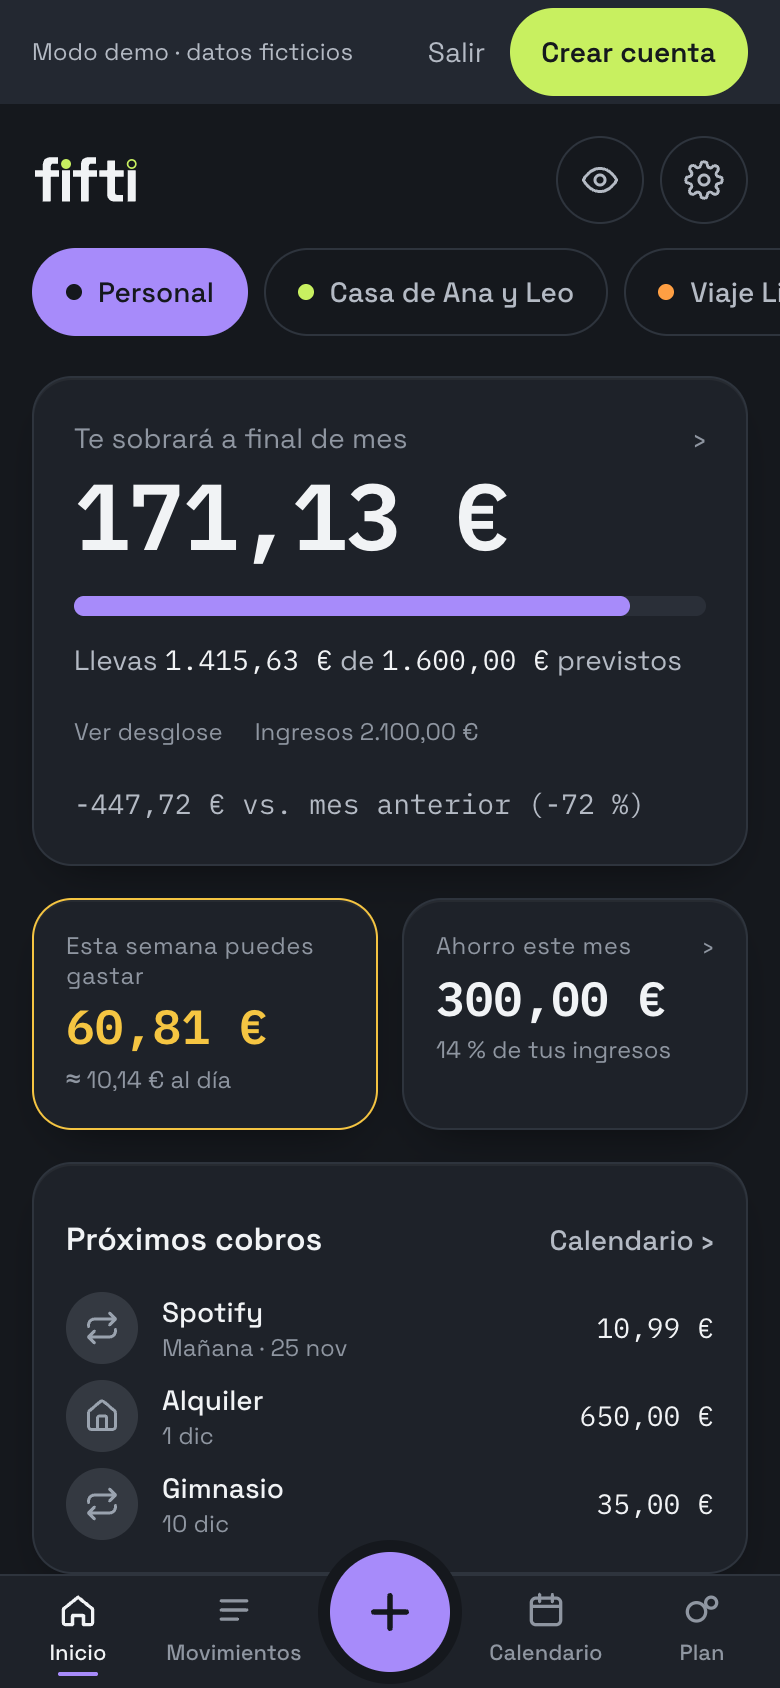
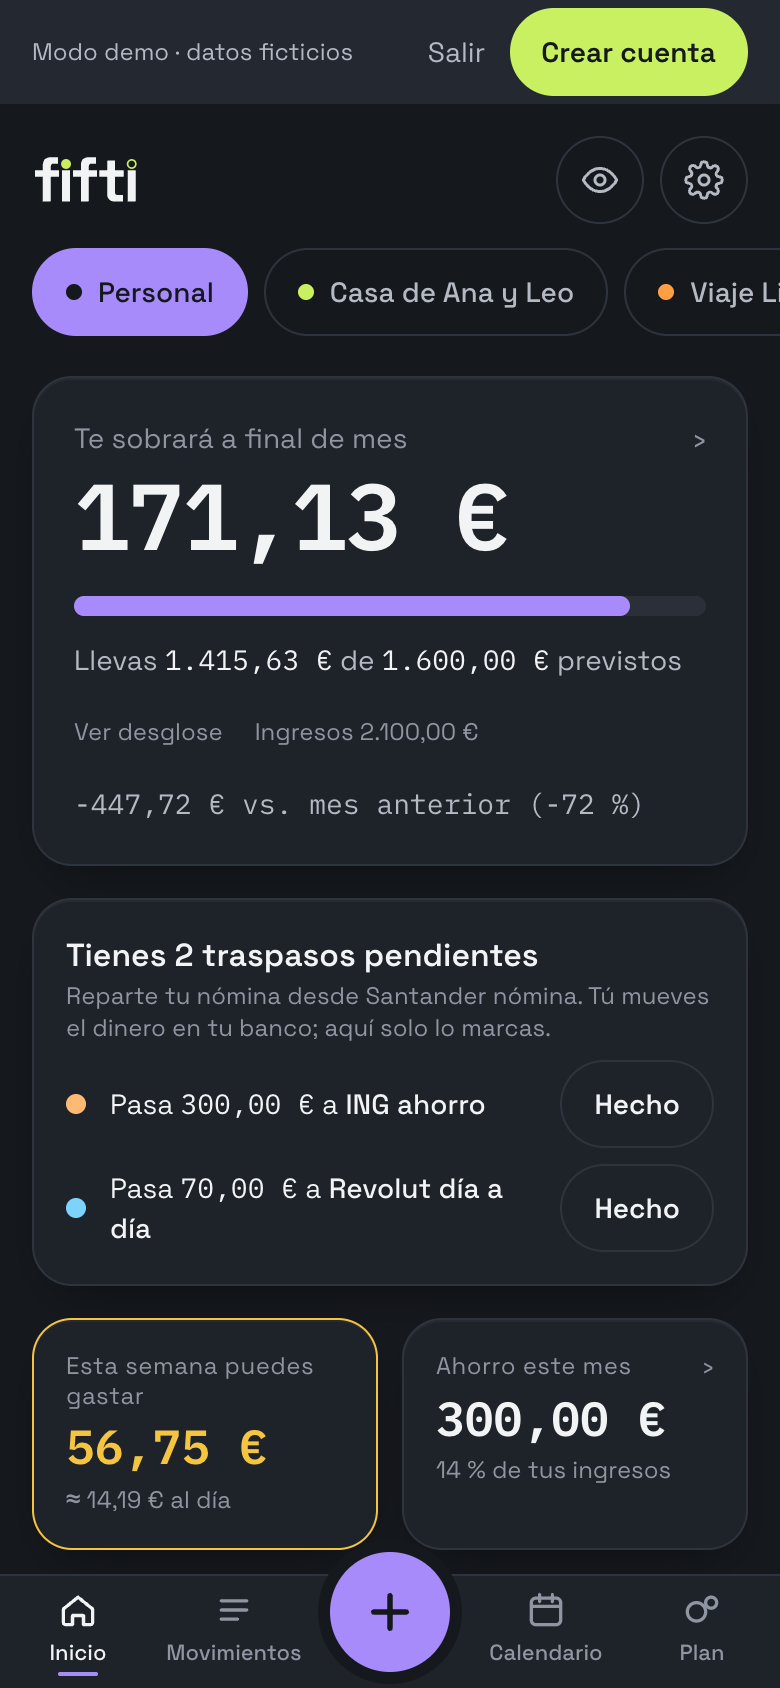
docs: README completo con resumen en inglés, capturas nuevas, arquitectura, calidad y CHANGELOG

diff --git a/README.md b/README.md
@@ -2,61 +2,122 @@
 
 *Cuentas claras en casa, en pareja y de fiesta.*
 
-PWA de finanzas personales, de pareja y de grupo. El dinero se organiza en **espacios**:
+**App:** https://fifti-seven.vercel.app · **Demo sin registro (datos ficticios):** https://fifti-seven.vercel.app/demo
 
-- **Personal**: privada. Ingresos, gastos, plan del mes y metas.
-- **Hogar** (fija): pareja o piso, con bote común proporcional a los ingresos, gastos fijos y ahorro.
-- **Plan espontáneo**: una cena o un viaje. Se comparte por enlace o QR, entran sin cuenta y al cerrarlo sale quién paga a quién.
+> **In English.** Fifti is an installable web app (PWA) for personal, couple and group finances. Your money is organised in **spaces**: a private *Personal* space, a shared *Home* (couple or flatmates, with a common pot split in proportion to income) and *Groups* in the style of Tricount, where guests join by link or QR without an account. Everything is connected: your share of every shared expense flows into your personal budget. It also has a monthly budget split by percentage, fixed expenses with a calendar and reminders, bank accounts with balances and transfers ("Split your pay"), savings goals, loans, a live shopping list, bank statement import (Santander, BBVA, CaixaBank, ING, Revolut, N26), category rules, quick-phrase entry, a PDF monthly report, discreet mode, app lock, Spanish/English and dark/light themes. Money is stored as integer cents, every table has forced Row Level Security, and the whole UI is available in both languages. The rest of this document is in Spanish.
 
-**Qué la diferencia de Tricount:** todo está conectado. Tu parte de cada gasto de grupo entra sola en tu plan personal, así sabes lo que gastas de verdad en el mes (casa + pareja + salidas). Además tiene presupuesto mensual por partidas, previsión de fin de mes, cierre de mes, bote común y metas de ahorro.
+## Qué es Fifti y para quién
 
-Prueba la demo (datos ficticios, sin registro) en `/demo`.
+Fifti es una PWA de finanzas para **una persona**, **una pareja** o **un grupo** (un viaje, una cena, un piso). Está pensada para quien quiere saber, sin hojas de cálculo, cuánto le sobrará a final de mes y quién debe a quién.
 
-## Funciones
+Qué la diferencia de Tricount: **todo está conectado**. Tu parte de cada gasto compartido entra sola en tu presupuesto personal, así ves lo que gastas de verdad (casa + pareja + salidas). Además trae presupuesto mensual por partidas, previsión de fin de mes, cuentas bancarias con saldos y metas de ahorro.
 
-- **Inicio**: cuánto te sobrará a final de mes, lo que puedes gastar esta semana, ahorro previsto, próximos cobros, presupuesto por partidas y últimos movimientos.
-- **Apuntar rápido**: el botón **+** ofrece gasto, gasto fijo, ingreso, aportación a una meta y préstamo; también acepta una frase («12 cena con Leo a medias»), un atajo de Siri y favoritos con pulsación larga.
-- **Calendario** de gastos fijos (mensual, semanal, trimestral, anual) con avisos antes del cobro y «saltar este mes».
-- **Plan**: Presupuesto (reparto por partidas y cierre de mes), Fijos y Ahorro (metas con ritmo).
-- **Pareja y grupos**: invitación a la pareja, lista de la compra, préstamos, pagador rotativo y balance de quién debe a quién.
-- **Importar del banco** (CSV) con detección de formato y duplicados, reglas de categoría y resumen mensual en PDF.
-- **Tendencias** por partida y recordatorio diario opcional.
+Fifti **no se conecta a ningún banco ni mueve dinero**: los saldos salen de lo que apuntas y de los extractos que importas. No guarda IBAN, números de cuenta ni credenciales; una cuenta es solo un nombre, un banco (texto), un color, un tipo y un saldo inicial.
 
 ## Capturas
 
-Capturas reales de la demo (`/demo`, datos ficticios: Ana, Leo, «Viaje Lisboa»), a 390 px.
+Capturas reales de la demo (datos ficticios: Ana, Leo, «Viaje Lisboa»), a 390 px y en oscuro.
 
-| Inicio | Calendario | Plan: Presupuesto |
+| Inicio | El botón + | Calendario |
 |---|---|---|
-| ![Inicio](docs/capturas/01-inicio.png) | ![Calendario](docs/capturas/02-calendario.png) | ![Presupuesto](docs/capturas/03-plan-presupuesto.png) |
+| ![Inicio](docs/capturas/01-inicio.png) | ![El botón +](docs/capturas/02-mas.png) | ![Calendario](docs/capturas/03-calendario.png) |
 
-| Plan: Fijos | Movimientos | Nuevo gasto fijo |
+| Plan | Cuentas | Ajustes |
 |---|---|---|
-| ![Fijos](docs/capturas/04-plan-fijos.png) | ![Movimientos](docs/capturas/05-movimientos.png) | ![Nuevo gasto fijo](docs/capturas/06-nuevo-gasto-fijo.png) |
+| ![Plan](docs/capturas/04-plan.png) | ![Cuentas](docs/capturas/05-cuentas.png) | ![Ajustes](docs/capturas/06-ajustes.png) |
 
-| Ajustes |
-|---|
-| ![Ajustes](docs/capturas/07-ajustes.png) |
+## Funciones
 
-## Stack
+**Espacios**
+- **Personal**: privado. Ingresos, gastos, presupuesto y metas.
+- **Hogar**: pareja o piso, con bote común proporcional a los ingresos, gastos fijos, ahorro y balance de quién debe a quién. Invitación a la pareja en un paso.
+- **Grupos** (una cena, un viaje): se comparten por enlace o QR, los **invitados entran sin cuenta** y al cerrar el plan sale quién paga a quién (con cambio de moneda, gastos privados y pagador rotativo).
 
-Next.js 16 (App Router) · TypeScript estricto · Tailwind CSS 4 · Supabase (Postgres, Auth, Storage, RLS, pg_cron) · Zod · Recharts + d3-hierarchy · next-intl · tesseract.js · Vitest · Vercel
+**Dinero**
+- **Presupuesto y partidas por %**: Fijos, Día a día, Ocio y Ahorro (y las que añadas), con barra, ritmo diario, aviso al 80 % y cierre de mes. Previsión «Te sobrará a final de mes» única en Inicio y Plan.
+- **Gastos fijos** mensuales, semanales, trimestrales y anuales, con **calendario**, «saltar este mes» y aviso previo (1, 3 o 7 días) sin importes en la notificación.
+- **Cuentas bancarias** con saldo (inicial + ingresos − gastos ± traspasos), detalle por cuenta y «Ajustar saldo» que deja un ajuste visible.
+- **Traspasos** entre cuentas: no cuentan como gasto ni ingreso. **Reparte tu nómina**: con las cuentas asociadas a cada partida, Fifti te dice cuánto pasar a cada una y se marca con un toque.
+- **Aportar al hogar**: sale de tu plan personal y entra en el hogar a tu nombre; un traspaso a la cuenta común cuenta como aportación, una sola vez.
+- **Metas de ahorro** con ritmo, hitos y retos; **préstamos** sueltos con recordatorio; **lista de la compra** compartida en directo.
+- **Vaciar un espacio** (solo su creador, con confirmación escribiendo el nombre y 10 s para deshacer).
 
-## Decisiones técnicas
+**Entrada rápida**
+- Botón **+** con gasto, gasto fijo, ingreso, meta, préstamo, traspaso y aportación; **frase rápida** («12 cena con Leo a medias»), **atajo de Siri**, favoritos con pulsación larga y escaneo de tickets con OCR en el navegador.
+- **Importar extractos** de Santander, BBVA, CaixaBank, ING, Revolut y N26 (o mapear columnas), por cuenta, con duplicados detectados contra lo apuntado a mano y ajuste de saldo si el CSV lo trae.
+- **Reglas de categoría** con aprendizaje.
 
-- **Dinero en céntimos** (enteros; `bigint` en Postgres) y **porcentajes en puntos básicos** (10000 = 100 %). Los repartos usan el método del mayor resto: la suma siempre cuadra al céntimo. Toda la lógica de dinero son funciones puras en `src/lib/money`, con tests de propiedades.
-- **RLS en todas las tablas** (38) con `FORCE ROW LEVEL SECURITY`, privilegios por columna y funciones `security definer` con `search_path` fijo. Las escrituras sensibles (gastos, liquidaciones, invitaciones, compensaciones) van por RPC atómicas que validan pertenencia, sumas e importes.
-- **Sesión en cookies `httpOnly`** (`@supabase/ssr`); no hay cliente de Supabase en el navegador y la `service_role` solo existe en el servidor (`server-only`).
-- **Invitados sin cuenta** = sesiones anónimas de Supabase Auth, ligadas por RLS a un solo grupo y un solo perfil; pueden convertirse en cuenta conservando su historial.
+**Análisis y ajustes**
+- Tendencias por partida, **informe mensual en PDF**, «Tu año en Fifti».
+- **Modo discreto**, **bloqueo** de la app, notificaciones push opcionales, **español e inglés**, tema **oscuro y claro**, funciona sin conexión.
+
+## Arquitectura
+
+```mermaid
+flowchart LR
+  U[Navegador · PWA<br/>service worker · cola offline · caché de navegación] -->|HTTPS · server actions · cookies httpOnly| V
+  subgraph V[Vercel · región fra1]
+    N[Next.js 16 · App Router<br/>React 19 · Zod strict · rate limit]
+    C[Cron: gastos fijos · avisos]
+  end
+  N -->|clave anónima + sesión del usuario · RLS| S
+  N -->|service_role solo en servidor| S
+  U -.->|WebSocket Realtime<br/>solo access_token en memoria| S
+  subgraph S[Supabase]
+    P[(Postgres<br/>RLS forzada · RPC security definer)]
+    A[Auth + captcha Turnstile]
+    St[Storage privado<br/>URL firmada]
+    R[Realtime]
+    J[pg_cron + pg_net<br/>recordatorios]
+  end
+  C --> N
+  J -->|aviso con secreto en vault| N
+```
+
+**Decisiones técnicas**
+- **Dinero en céntimos** (enteros; `bigint` en Postgres) y **porcentajes en puntos básicos** (10000 = 100 %). Los repartos usan el **método del mayor resto**: la suma siempre cuadra al céntimo. Toda la lógica de dinero son funciones puras en `src/lib/money`, con tests de propiedades.
+- **Los meses son el primer día** (`2026-11-01`) y una sola función de previsión (`monthOutlook`) alimenta Inicio y Plan.
+- **RLS en todas las tablas** (48) con `FORCE ROW LEVEL SECURITY`, privilegios por columna y funciones `security definer` con `search_path` fijo. Las escrituras sensibles (gastos, liquidaciones, invitaciones, cuentas, traspasos, vaciar espacio) van por RPC atómicas que validan pertenencia, sumas e importes.
+- **Sesión en cookies `httpOnly`** (`@supabase/ssr`); no hay cliente de Supabase en el navegador salvo el canal Realtime, que recibe solo el `access_token`, en memoria (excepción E1 en SECURITY.md).
+- **Demo con proveedor en memoria**: `/demo` monta **las mismas páginas** que la app real, pero el cliente de datos es un proveedor en memoria de solo lectura (escribir responde «Crea una cuenta para guardar»). Un test de paridad comprueba que demo y cuenta real exponen los mismos elementos.
+- **Rendimiento con el servidor lejos**: funciones en `fra1`, consultas de cada página en una sola tanda, esqueletos de carga, precarga de las pestañas, **caché de navegación en el cliente** (se muestra al instante y se revalida por detrás) y respuesta optimista al guardar.
+- **Sincronización offline**: cola en IndexedDB con `client_id` idempotente; reenviar nunca duplica. **Service worker** propio versionado por despliegue, con red primero para HTML y solo recursos con hash en caché; no cachea páginas con tokens.
+- **Invitados sin cuenta** = sesiones anónimas de Supabase Auth ligadas por RLS a un solo grupo y un solo perfil; pueden convertirse en cuenta conservando su historial.
 - **Enlaces** (invitación, invitado, reclamar perfil, resumen público): token de 32 bytes, solo se guarda su hash, con caducidad, usos máximos y revocación.
-- **Sincronización offline**: cola en IndexedDB con `client_id` idempotente; reenviar nunca duplica. Service worker propio con lectura offline y sin cachear páginas con tokens.
-- **Gastos privados** dentro de un grupo: el detalle vive en una tabla aparte legible solo por su autor; los demás ven «Gasto privado» con importe y reparto.
-- **Historial** inmutable (solo inserción) escrito por triggers.
-- **Tickets**: tipo real por magic bytes, máx. 5 MB, recodificado a WebP sin EXIF, bucket privado y URL firmada de 5 minutos. OCR en el navegador con archivos servidos desde el propio dominio.
-- **Contraseñas** comprobadas contra Have I Been Pwned por k-anonymity (solo salen 5 caracteres del hash SHA-1).
-- **CSV**: escape de inyección de fórmulas al exportar; al importar, límites de tamaño y filas, validación por fila y vista previa.
+- **Gastos privados** dentro de un grupo: el detalle vive en una tabla aparte legible solo por su autor. **Historial** inmutable (solo inserción) escrito por triggers.
+- **Tickets**: tipo real por magic bytes, máx. 5 MB, recodificado sin EXIF, bucket privado y URL firmada de 5 minutos; OCR en el navegador con archivos propios.
+- **CSV**: escape de inyección de fórmulas al exportar; al importar, límites, validación por fila y vista previa.
 
-## Cómo ejecutarlo
+## Seguridad
+
+Resumen de la checklist de 20 puntos (el detalle, con cómo se comprueba cada uno, está en **[SECURITY.md](SECURITY.md)**):
+
+- **RLS forzada** en las 48 tablas y permisos validados en el servidor, nunca solo en la interfaz; protección contra IDOR con UUID + RLS + tests.
+- **Zod `.strict()`** en cada acción del servidor (nada de asignación masiva) y SQL siempre parametrizado.
+- **Rate limiting** por IP y usuario (acceso, registro, recuperación, invitaciones, invitados, importación, planes y cuentas) que falla cerrado.
+- **CSP estricta** y cabeceras de seguridad (HSTS, `X-Frame-Options`, `nosniff`…); sin `dangerouslySetInnerHTML`; sin stack traces al usuario; sin CORS abierto.
+- **Contraseñas** en Supabase Auth, comprobadas contra *Have I Been Pwned* por k-anonymity; email confirmado antes de usar la cuenta.
+- **Cloudflare Turnstile** en registro, acceso, recuperación e invitados: el token llega a Supabase Auth, que lo valida.
+- **Sin secretos en git** (gitleaks en CI) y dependencias vigiladas (Dependabot, `npm audit`, osv-scanner).
+- **Sin datos bancarios sensibles**: nada de IBAN, números de cuenta ni credenciales; Fifti no se conecta a bancos.
+
+## Calidad
+
+| Qué | Cifra actual |
+|---|---|
+| Tests unitarios (dinero, previsión, calendario, CSV, parser de frases, contraste AA…) | **296** |
+| Tests de RLS contra Supabase real (incluye cuentas, traspasos, vaciar espacio) | **122** |
+| Pruebas de punta a punta con Playwright, con sesión real, en móvil (390×844) y escritorio | **36** en verde (+4 opcionales) |
+| Desbordes horizontales a 390 px, en oscuro y claro, en todas las pantallas | **0** |
+| Paridad demo / cuenta real (mismos elementos tocables) y barrido de textos rotos en es y en | **verde** |
+| Lighthouse (Inicio, producción, móvil) | **93** de rendimiento (LCP 2,7 s) |
+| Navegación con 300 ms de latencia simulada: abrir un detalle desde Inicio | **27 ms** (antes 338 ms) |
+
+El **CI** (GitHub Actions) ejecuta lint, tipos, tests, auditoría de dependencias, gitleaks, osv-scanner, RLS y los e2e de Playwright sobre un Supabase local con el captcha de Auth activado (claves de prueba de Cloudflare); las trazas y capturas solo se suben si algo falla.
+
+Comandos: `npm test`, `npm run test:rls`, `npx playwright test`, `npm run e2e:overflow`, `npm run e2e:parity`, `node scripts/e2e/demo-sweep.mjs`, `node scripts/e2e/nav-latency.mjs`.
+
+## Cómo ejecutarlo en local
 
 Requisitos: Node 24+ y Docker (Supabase local y tests de RLS).
 
@@ -67,26 +128,23 @@ npx supabase start                              # base de datos local con las mi
 npm run dev
 ```
 
-Variables: URL y clave anónima de Supabase, `SUPABASE_SERVICE_ROLE_KEY`, `RATE_LIMIT_SALT`, `CRON_SECRET`, y las claves VAPID (`npx web-push generate-vapid-keys`) para las notificaciones.
+Variables: URL y clave anónima de Supabase, `SUPABASE_SERVICE_ROLE_KEY`, `RATE_LIMIT_SALT`, `CRON_SECRET`, las claves VAPID para las notificaciones (`npx web-push generate-vapid-keys`) y, para el captcha, `NEXT_PUBLIC_TURNSTILE_SITE_KEY` y `TURNSTILE_SECRET_KEY` (con las claves de prueba de Cloudflare funciona en local y en CI).
 
-Scripts: `npm test` (lógica de dinero, validación, CSV, cola offline…), `npm run test:rls` (políticas contra Supabase), `npm run lint`, `npm run typecheck`, `npm run check` (todo + build), `npm run icons` (logo e iconos).
+Scripts: `npm run check` (tipos + lint + tests + build), `npm run test:rls`, `npm run icons` (logo e iconos). Los e2e necesitan la app compilada y un archivo local con las claves de pruebas (plantilla en `.env.test.example`).
 
-## Calidad
+Migraciones en la nube: `supabase db push` después de que pasen en local.
 
-- `npm test`: lógica de dinero, previsión, calendario, validación, CSV, parser de frases, cola offline y contraste de color (AA) del tema oscuro y claro.
-- `npm run test:rls`: políticas de RLS contra Supabase local.
-- `npx playwright test`: pruebas de punta a punta con sesión real (apuntar un gasto y deshacer, sin conexión, hogar y balance, lista de la compra, importación CSV, cierre de mes, Ajustes), en móvil (390×844) y escritorio. Necesitan la app compilada y un Supabase local; cada prueba crea sus usuarios ficticios y los borra. La del invitado con Turnstile solo se ejecuta si la app se compiló con las claves de prueba de Cloudflare (`E2E_TURNSTILE_TEST=1`).
-- `npm run e2e:overflow` y `npm run e2e:parity`: sin desbordes horizontales a 390 px en oscuro y claro, y mismos elementos tocables en la demo y en una cuenta real.
-- **CI** (GitHub Actions): lint, tipos, tests, auditoría de dependencias, gitleaks, OSV, RLS y e2e con Playwright sobre Supabase local; las trazas y capturas solo se suben si algo falla.
+## Pendiente / ideas
 
-## Pendiente (opcional)
+- **Monitorización de errores (Sentry)**: opcional y sin instalar. Los pasos y las condiciones de privacidad (sin datos personales, sin replay, CSP solo al host de ingestión) están en [SECURITY.md](SECURITY.md).
+- Activar el captcha en el panel de Supabase con la clave secreta de Turnstile (pasos en SECURITY.md).
+- La respuesta optimista confirma al instante pero no inserta aún en las listas antes de la respuesta del servidor.
+- Ideas: exportar el informe a más formatos, más bancos en la importación, avisos de día de cobro programados por servidor.
 
-- **Monitorización de errores (Sentry)**: no está activada. Los pasos y las condiciones de privacidad (sin datos personales, sin replay, CSP solo al host de ingestión) están en [SECURITY.md](SECURITY.md).
+## Cambios
+
+Historial por fechas en [CHANGELOG.md](CHANGELOG.md).
 
 ## Licencia
 
 MIT. Ver [LICENSE](LICENSE).
-
-## Seguridad
-
-CI con `gitleaks`, `osv-scanner`, `npm audit` y Dependabot. En el repo solo hay archivos de ejemplo de variables; ningún secreto ni dato real.

diff --git a/CHANGELOG.md b/CHANGELOG.md
@@ -1,0 +1,43 @@
+# Cambios
+
+Historial de Fifti por fechas. Formato libre, del más reciente al más antiguo.
+
+## 2026-11-25
+
+- **Cuentas bancarias**: nombre, banco (texto), color, tipo y saldo inicial; saldo calculado, detalle por cuenta, «Ajustar saldo» con ajuste visible, filtro por cuenta en Movimientos y cuenta en gastos, ingresos y gastos fijos. Sin IBAN ni credenciales.
+- **Traspasos** entre cuentas (no cuentan como gasto ni ingreso) y **Reparte tu nómina** con traspasos sugeridos según el reparto del plan; aviso opcional el día de cobro.
+- **Importar extracto por cuenta**, con duplicados contra lo apuntado a mano (importe, ±2 días, concepto parecido) y ajuste de saldo si el CSV lo trae.
+- **Aportar al hogar** desde el + y desde la partida; **Vaciar espacio** (solo su creador, escribiendo el nombre, 10 s para deshacer, aviso a los demás).
+- **Rendimiento**: caché de navegación en el cliente, consultas de cada página en una sola tanda, precarga de detalles y respuesta optimista (abrir un detalle con 300 ms de latencia: de 338 a 27 ms).
+- **Captcha de Turnstile hasta Supabase Auth** (registro, acceso, recuperación, invitados, cambio de contraseña y borrado de cuenta); el token se pasa como `captchaToken` y lo valida Supabase.
+- «Deshacer» espera al id real si se pulsa antes de que termine el guardado; respuesta optimista en formularios y en el borrado; hoja del + en cuadrícula 2×3.
+- Límites de tasa en las escrituras del plan y las cuentas; validación del cambio de divisa; estado de la checklist de seguridad en SECURITY.md.
+- Documentación: README completo, capturas nuevas y este historial.
+
+## 2026-11-24
+
+- **Rediseño de navegación**: barra Inicio · Movimientos · + · Calendario · Plan; Plan con pestañas Presupuesto, Fijos y Ahorro; Ajustes en el engranaje; nuevos tokens de color y radios; «Espacios» y «partidas» como nombres (es y en).
+- **Inicio** rediseñado: previsión de fin de mes, semana y ahorro, próximos cobros, presupuesto, últimos movimientos y la invitación a la pareja en tarjeta pequeña.
+- **Calendario** de gastos fijos (mensual, semanal, trimestral, anual) con día seleccionado, «Editar» y «Saltar este mes»; pantalla propia de **Nuevo gasto fijo**.
+- **Fase 1–6 de la v2**: atajo de Siri y `/nuevo`; frase rápida con analizador local; reglas de categoría con aprendizaje; importación de extractos (Santander, BBVA, CaixaBank, ING, Revolut, N26); invitación a la pareja, lista de la compra en directo, préstamos y turnos en gastos fijos; presupuesto semanal, tendencias, informe mensual en PDF y recordatorio diario.
+- **Fase de interfaz**: sistema visual con profundidad, tema oscuro por defecto, hojas inferiores con arrastre, filtros y filas deslizables en Movimientos, estados vacíos con acción, cifras animadas.
+- **Demo unificada**: monta las mismas páginas que la app real con un proveedor de datos en memoria; test de paridad.
+- **Calidad**: pruebas de punta a punta con Playwright (móvil y escritorio) y job en CI; barridos de desbordes y de textos rotos.
+- Corrección de datos en producción: previsión realista única, tasa de ahorro prevista, categorías sugeridas, enlaces con ancla, esqueletos de carga y streaming en Inicio.
+- Token de Realtime renovable, solo `access_token` y en memoria (excepción documentada).
+- El + abre al instante con guardado optimista y «Deshacer».
+
+## 2026-11-23
+
+- **Base**: proyecto Next.js, Supabase con RLS forzada, autenticación, marca y contraseñas comprobadas con HIBP.
+- **Espacios y miembros**, invitaciones e **invitados sin cuenta**.
+- **Gastos**: reparto por mayor resto, gastos privados, ingresos y comentarios.
+- **Offline**: cola idempotente en IndexedDB y service worker.
+- **Balance**: saldar, modo a cero, compensación entre espacios y resumen.
+- **Plan mensual**: partidas por %, bote común, aportaciones y gastos fijos; reflejo en Personal, previsión y cierre de mes.
+- **Ahorro**: metas con hitos, retos y reglas de redondeo.
+- **Grupos espontáneos** completos: cambio de moneda, QR y cierre de plan.
+- **Extras**: tickets con OCR, CSV, notificaciones push, detector de gastos fijos, calendario y «Tu año».
+- **Ajustes**: español e inglés, tema claro y oscuro, modo discreto, bloqueo y borrado de cuenta.
+- **Landing pública y demo**; Turnstile en la entrada de invitados; funciones en la región `fra1`.
+- Licencia MIT y primera documentación.
